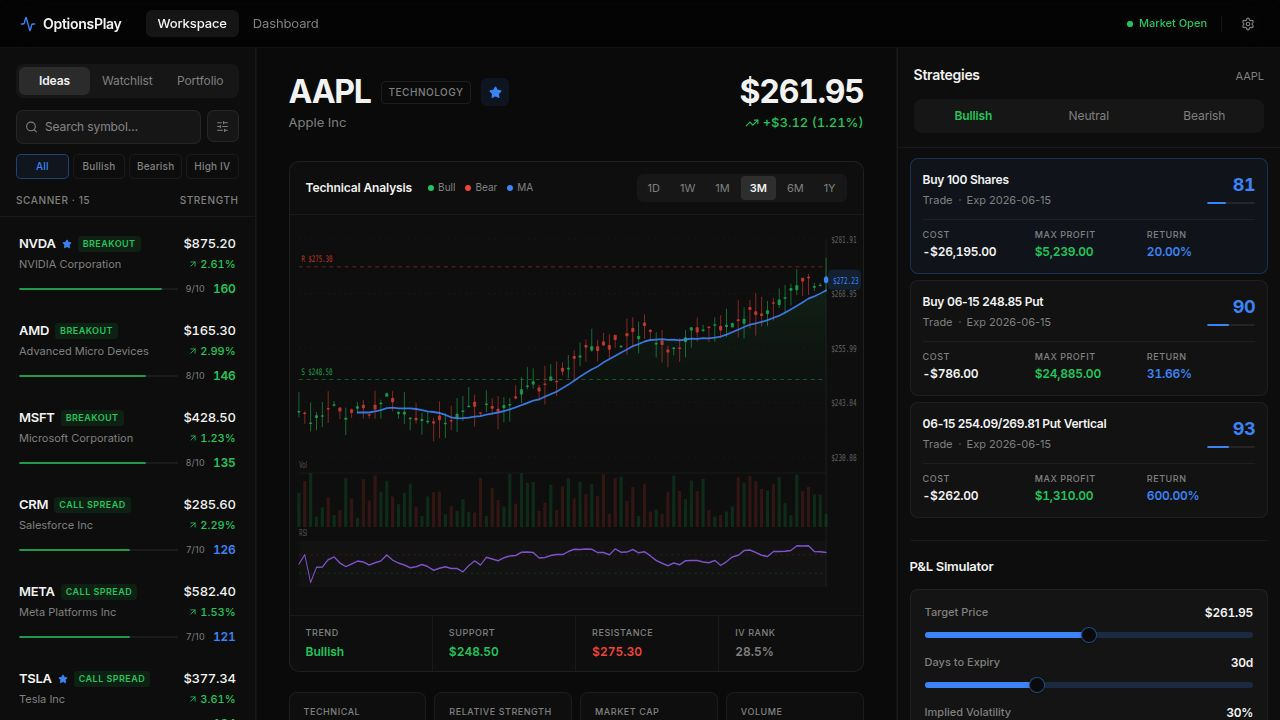
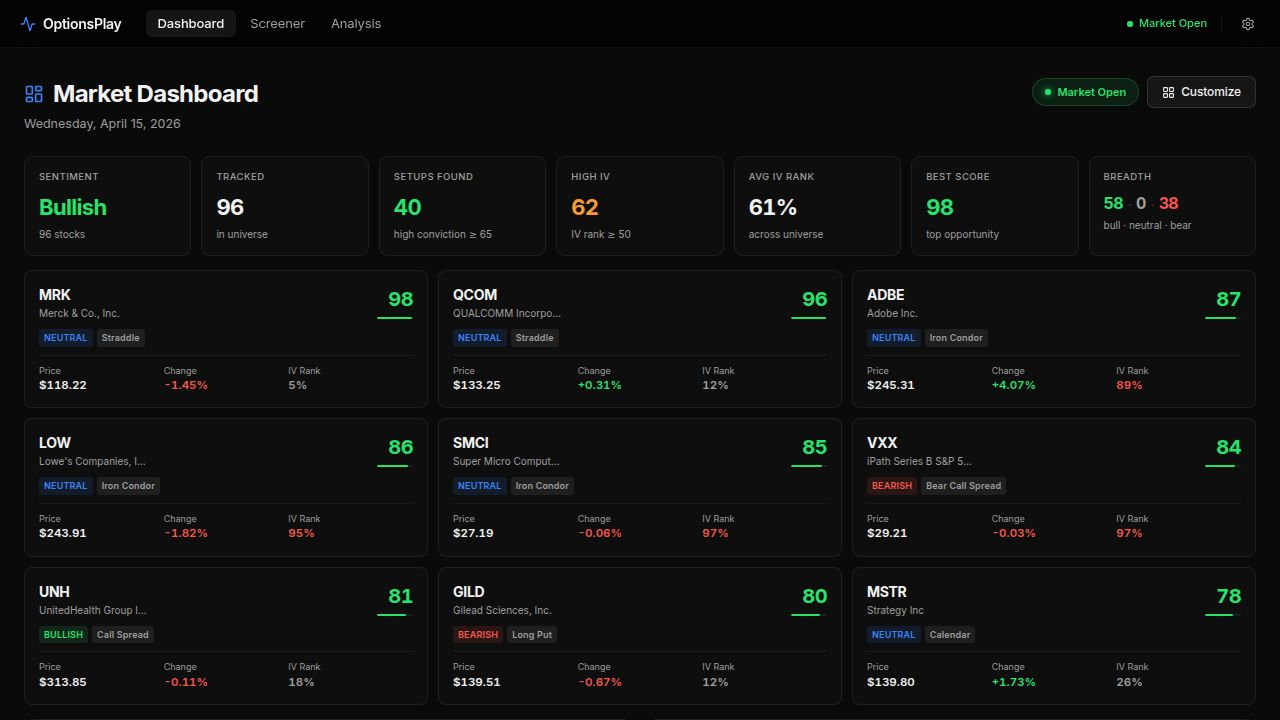
Rename the scanner section to Analysis in the navigation
Update the navigation item from "Scanner" to "Analysis" in the Shell component.

Replit-Commit-Author: Agent
Replit-Commit-Session-Id: 16fba297-224d-41b8-a434-dee1dfa6733f
Replit-Commit-Checkpoint-Type: full_checkpoint
Replit-Commit-Event-Id: bec8a8b0-d737-4961-884c-587ab54521fb
Replit-Commit-Screenshot-Url: https://storage.googleapis.com/screenshot-production-us-central1/792a8039-017f-41c6-8b9c-58a2cd3f5b08/16fba297-224d-41b8-a434-dee1dfa6733f/25zsmjJ
Replit-Helium-Checkpoint-Created: true

diff --git a/artifacts/options-platform/src/components/layout/Shell.tsx b/artifacts/options-platform/src/components/layout/Shell.tsx
@@ -11,7 +11,7 @@ export function Shell({ children }: ShellProps) {
   const navItems = [
     { href: "/", label: "Dashboard" },
     { href: "/screener", label: "Screener" },
-    { href: "/scanner", label: "Scanner" },
+    { href: "/scanner", label: "Analysis" },
   ];
 
   return (
